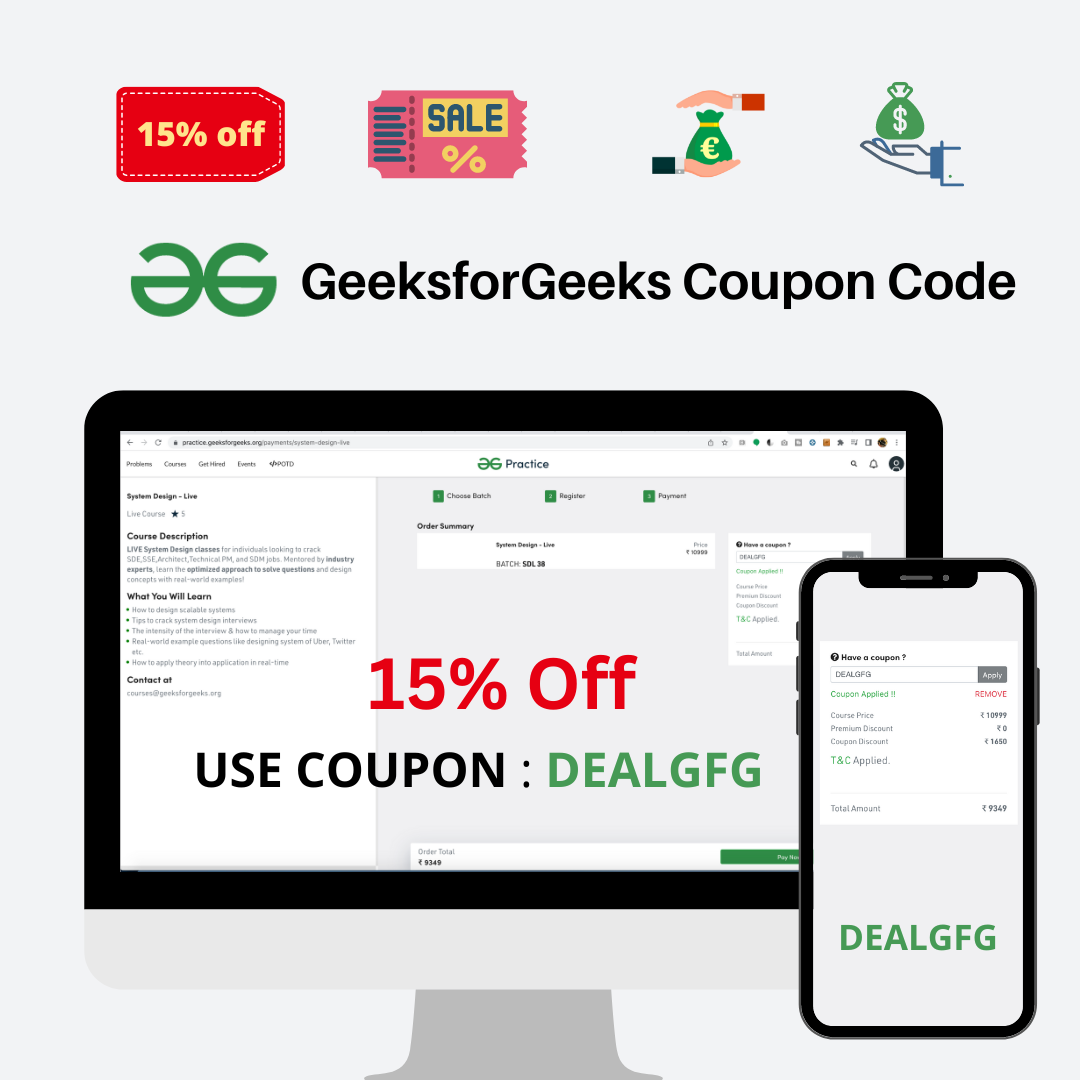
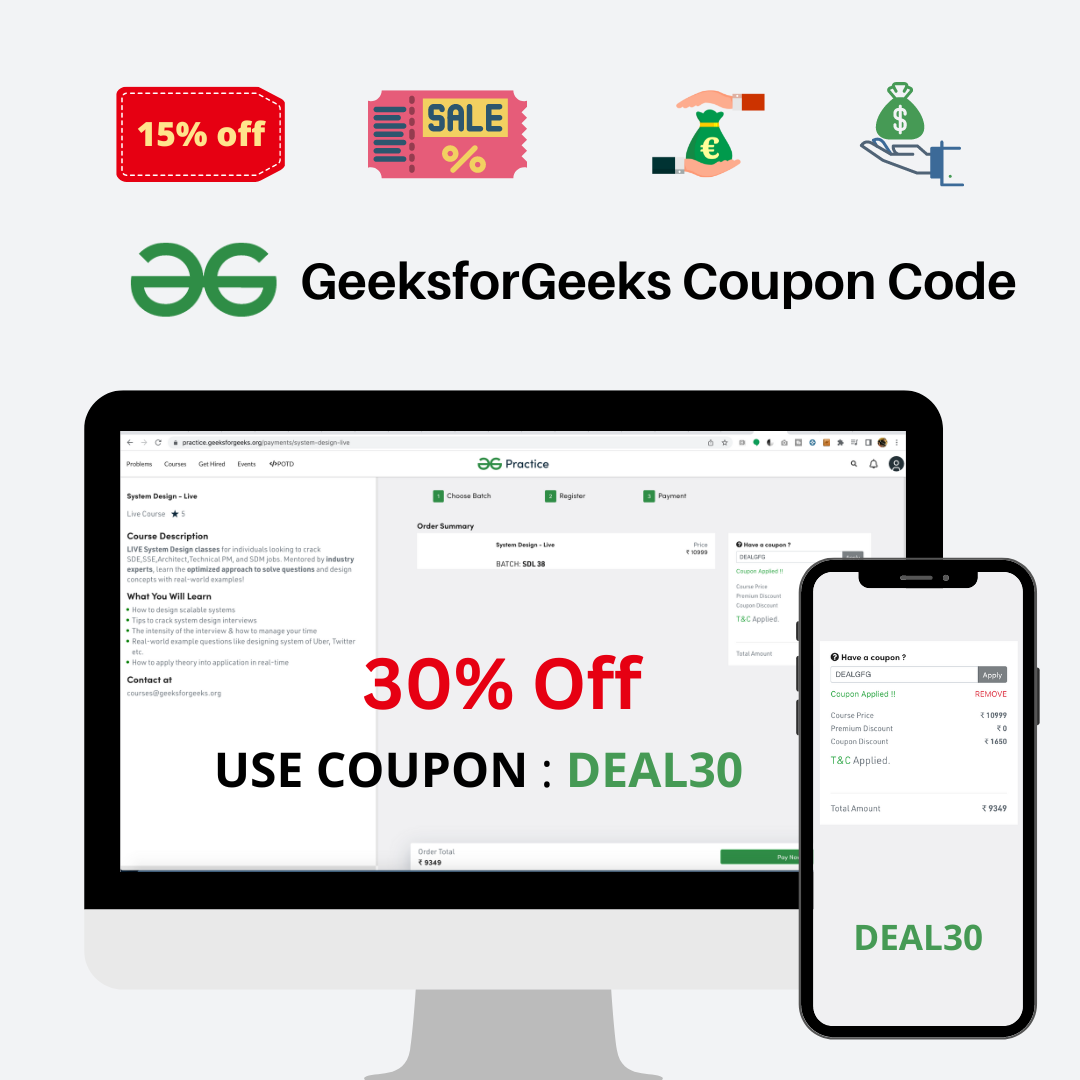
Update

Changed region(s): [[0.1833, 0.6111, 0.7028, 0.7333], [0.7639, 0.8556, 0.9167, 0.8861]]

diff --git a/index.html b/index.html
@@ -11,7 +11,7 @@
   <title>GET 100% Maximum GeeksForGeeks Coupon Code Discount Coupons</title>
 
   <meta name="description"
-    content='Use GeeksForGeeks Coupon Code: DEALGFG and get best deal on GeeksForGeeks Courses. Best Maximum Discount Coupon Codes for GeeksForGeeks that works 100% GUARANTEED'>
+    content='Use GeeksForGeeks Coupon Code: DEAL30 and get best deal on GeeksForGeeks Courses. Best Maximum Discount Coupon Codes for GeeksForGeeks that works 100% GUARANTEED'>
 
   <meta name="keywords"
     content="GeeksForGeeks coupon code, GeeksForGeeks coupon, gfg coupon code, gfg coupon, gfg discount, geeksforgeeks discount, GeeksForGeeks discounts, GeeksForGeeks discount coupons, GeeksForGeeks coupon, GeeksForGeeks coupon code, gfg coupon code, GeeksForGeeks offers, coupon code for GeeksForGeeks, GeeksForGeeks coupons,  GeeksForGeeks referral coupon, GeeksForGeeks affiliate referral, GeeksForGeeks discount link, GeeksForGeeks affiliate referral discount, GeeksForGeeks affiliate, GeeksForGeeks affiliate discount, GeeksForGeeks referral 1200, GeeksForGeeks campus referral, codingreferral, GeeksForGeeks referral, gfg referral, gfg discounts, couponinvent, cn discounts, cn referral, GeeksForGeeks affiliate referral discounts, GeeksForGeeks course discounts, GeeksForGeeks refferral, gfg coupon, gfg coupon code">
@@ -20,7 +20,7 @@
   <meta property="og:type" content="website" />
   <meta property="og:title" content="GeeksForGeeks Coupon Code - Get 100% MAXIMUM Discount Coupons Code" />
   <meta property="og:description"
-    content="Apply this GeeksForGeeks Coupon Code: 'DEALGFG', to get MAXIMUM Discount on any courses. Discount Coupons Code for GeeksForGeeks that works 100% GUARANTEED" />
+    content="Apply this GeeksForGeeks Coupon Code: 'DEAL30', to get MAXIMUM Discount on any courses. Discount Coupons Code for GeeksForGeeks that works 100% GUARANTEED" />
   <meta property="og:url" content="https://couponinvent.github.io/geeksforgeeks/geeksforgeeks-coupon-code.html" />
   <meta property="og:site_name" content="GeeksForGeeks Coupon Code" />
   <meta property="article:publisher" content="https://www.facebook.com/jvjplus" />
@@ -257,7 +257,7 @@
         <li class="landing-page-li">
           <img class="landing-li-img" src="assets/tick-icon-dark-green.png" alt="List icon">
           <!-- <h2 class="landing-page-li-early-bird-discount">Also Get Upto <strong> 50% </strong> Discount by GFG.</h2> -->
-          <h2 class="landing-page-li-early-bird-discount">Use Coupon Code: <strong> DEALGFG </strong> and Level Up your
+          <h2 class="landing-page-li-early-bird-discount">Use Coupon Code: <strong> DEAL30 </strong> and Level Up your
             Skills and Knowledge.</h2>
         </li>
         <li class="landing-page-li">
@@ -289,7 +289,7 @@
 
         <span class="copy-container">
           <p class="box-label"> Use Coupon</p>
-          <span class="coupon-code">DEALGFG</span>
+          <span class="coupon-code">DEAL30</span>
           <span class="tooltip-container">
             <span>
               <svg class="copy-icon noSelect" alt="copy coupon code" onclick="addToClipboard();"
@@ -407,7 +407,7 @@ c0-4.551,3.703-8.254,8.254-8.254h88.271c4.551,0,8.254,3.703,8.254,8.254V160.746z
             <p class="deal-original-price"><s> ₹3,899</s> </p>
             <p class="deal-discount-percentage-hightlight">-15% OFF</p>
           </div>
-          <p class="description">Hurray! Discount Offers on your way. Just use coupon code 'DEALGFG' on gfg Data
+          <p class="description">Hurray! Discount Offers on your way. Just use coupon code 'DEAL30' on gfg Data
             Structures and Algorithms - Self Paced Course
             purchase and save 15% extra.</p>
         </div>
@@ -417,9 +417,9 @@ c0-4.551,3.703-8.254,8.254-8.254h88.271c4.551,0,8.254,3.703,8.254,8.254V160.746z
             <button class="deal-cta-btn">GET DEAL</button>
           </a>
           <div class="deal-coupon-code-container">
-            <p class="deal-coupon-code">DEALGFG</p>
+            <p class="deal-coupon-code">DEAL30</p>
             <img src="assets/copy-icon.svg" alt="copy-icon" class="deal-copy-icon clipboard-btn"
-              data-clipboard-text="DEALGFG">
+              data-clipboard-text="DEAL30">
             <!-- <i class="fas fa-light fa-copy deal-copy-icon"></i> -->
           </div>
 
@@ -445,7 +445,7 @@ c0-4.551,3.703-8.254,8.254-8.254h88.271c4.551,0,8.254,3.703,8.254,8.254V160.746z
             <p class="deal-original-price"><s>₹10,999</s> </p>
             <p class="deal-discount-percentage-hightlight">-15% OFF</p>
           </div>
-          <p class="description">Hurray! Discount Offers on your way. Just use coupon code 'DEALGFG' on gfg Competitive
+          <p class="description">Hurray! Discount Offers on your way. Just use coupon code 'DEAL30' on gfg Competitive
             Programming - Live Course purchase and save 15% extra.</p>
         </div>
 
@@ -454,9 +454,9 @@ c0-4.551,3.703-8.254,8.254-8.254h88.271c4.551,0,8.254,3.703,8.254,8.254V160.746z
             <button class="deal-cta-btn">GET DEAL</button>
           </a>
           <div class="deal-coupon-code-container">
-            <p class="deal-coupon-code">DEALGFG</p>
+            <p class="deal-coupon-code">DEAL30</p>
             <img src="assets/copy-icon.svg" alt="copy-icon" class="deal-copy-icon clipboard-btn"
-              data-clipboard-text="DEALGFG">
+              data-clipboard-text="DEAL30">
             <!-- <i class="fas fa-light fa-copy deal-copy-icon"></i> -->
           </div>
 
@@ -483,7 +483,7 @@ c0-4.551,3.703-8.254,8.254-8.254h88.271c4.551,0,8.254,3.703,8.254,8.254V160.746z
             <p class="deal-original-price"><s> ₹7,748</s> </p>
             <p class="deal-discount-percentage-hightlight">-15% OFF</p>
           </div>
-          <p class="description">Hurray! Discount Offers on your way. Just use coupon code 'DEALGFG' on gfg Complete
+          <p class="description">Hurray! Discount Offers on your way. Just use coupon code 'DEAL30' on gfg Complete
             Interview Preparation - Self Paced Course
             purchase and save 15% extra.</p>
         </div>
@@ -493,9 +493,9 @@ c0-4.551,3.703-8.254,8.254-8.254h88.271c4.551,0,8.254,3.703,8.254,8.254V160.746z
             <button class="deal-cta-btn">GET DEAL</button>
           </a>
           <div class="deal-coupon-code-container">
-            <p class="deal-coupon-code">DEALGFG</p>
+            <p class="deal-coupon-code">DEAL30</p>
             <img src="assets/copy-icon.svg" alt="copy-icon" class="deal-copy-icon clipboard-btn"
-              data-clipboard-text="DEALGFG">
+              data-clipboard-text="DEAL30">
             <!-- <i class="fas fa-light fa-copy deal-copy-icon"></i> -->
           </div>
 
@@ -523,7 +523,7 @@ c0-4.551,3.703-8.254,8.254-8.254h88.271c4.551,0,8.254,3.703,8.254,8.254V160.746z
             <p class="deal-original-price"><s> ₹2,499</s> </p>
             <p class="deal-discount-percentage-hightlight">-15% OFF</p>
           </div>
-          <p class="description">Hurray! Discount Offers on your way. Just use coupon code 'DEALGFG' on gfg Complete
+          <p class="description">Hurray! Discount Offers on your way. Just use coupon code 'DEAL30' on gfg Complete
             Test Series for Service-Based Companies Course
             purchase and save 15% extra.</p>
         </div>
@@ -533,9 +533,9 @@ c0-4.551,3.703-8.254,8.254-8.254h88.271c4.551,0,8.254,3.703,8.254,8.254V160.746z
             <button class="deal-cta-btn">GET DEAL</button>
           </a>
           <div class="deal-coupon-code-container">
-            <p class="deal-coupon-code">DEALGFG</p>
+            <p class="deal-coupon-code">DEAL30</p>
             <img src="assets/copy-icon.svg" alt="copy-icon" class="deal-copy-icon clipboard-btn"
-              data-clipboard-text="DEALGFG">
+              data-clipboard-text="DEAL30">
             <!-- <i class="fas fa-light fa-copy deal-copy-icon"></i> -->
           </div>
 
@@ -607,7 +607,7 @@ c0-4.551,3.703-8.254,8.254-8.254h88.271c4.551,0,8.254,3.703,8.254,8.254V160.746z
         </li>
         <li><strong>Apply Coupon Code:</strong> After selecting the course, Proceed to buy the
           course. On checkout you'll see a option to apply coupon code. Apply the coupon code <span
-            class="highlight">"DEALGFG"</span>
+            class="highlight">"DEAL30"</span>
           to get maximum discount.</li>
         <li>
           <strong>Start Learning & Get Placed:</strong>
@@ -677,7 +677,7 @@ c0-4.551,3.703-8.254,8.254-8.254h88.271c4.551,0,8.254,3.703,8.254,8.254V160.746z
         <div class="hiw-step-img-container title vertically-align">2</div>
         <div class="title">Apply Coupon Code</div>
         <div class="paragraph">Proceed to payment page, There you will find a option to apply coupon code,
-          Apply the coupon code <span class="highlight">"DEALGFG"</span> to get maximum discount available on
+          Apply the coupon code <span class="highlight">"DEAL30"</span> to get maximum discount available on
           geeksforgeeks.</div>
       </div>
 
@@ -841,7 +841,7 @@ c0-4.551,3.703-8.254,8.254-8.254h88.271c4.551,0,8.254,3.703,8.254,8.254V160.746z
         <div class="ab-single-item-descrip-container">
           <h3 class="title">Apply Coupon Code</h3>
           <p class="paragraph">
-            On the checkout page, Apply coupon code <span class="highlight">"DEALGFG"</span>. This will automatically
+            On the checkout page, Apply coupon code <span class="highlight">"DEAL30"</span>. This will automatically
             apply the maximum discount on your purchase.
           </p>
         </div>
@@ -933,7 +933,7 @@ c0-4.551,3.703-8.254,8.254-8.254h88.271c4.551,0,8.254,3.703,8.254,8.254V160.746z
             </ul>
 
             <br>
-            Use GFG coupon code <span class="highlight">DEALGFG</span> for availing an additional 15% off on the <a
+            Use GFG coupon code <span class="highlight">DEAL30</span> for availing an additional 15% off on the <a
               href="https://practice.geeksforgeeks.org/courses/dsa-self-paced">DSA Self Paced Course</a>.
 
             <br><br>
@@ -955,7 +955,7 @@ c0-4.551,3.703-8.254,8.254-8.254h88.271c4.551,0,8.254,3.703,8.254,8.254V160.746z
               <li>Course Instructor: Sandeep Jain</li>
             </ul>
             <br>
-            Use GFG coupon code <span class="highlight">DEALGFG</span> for availing an additional 15% off on the <a
+            Use GFG coupon code <span class="highlight">DEAL30</span> for availing an additional 15% off on the <a
               href="https://practice.geeksforgeeks.org/courses/complete-interview-preparation">Complete Interview
               Preparation Course</a>.
 
@@ -989,7 +989,7 @@ c0-4.551,3.703-8.254,8.254-8.254h88.271c4.551,0,8.254,3.703,8.254,8.254V160.746z
         </button>
         <div class="panel">
           <main class="paragraph">No, this is the highest discount code available anywhere online for GeeksforGeeks. Use
-            coupon code <span class="highlight">DEALGFG</span> and get a flat 15% OFF on all courses.</main>
+            coupon code <span class="highlight">DEAL30</span> and get a flat 15% OFF on all courses.</main>
         </div>
       </div>
 
@@ -1018,11 +1018,11 @@ c0-4.551,3.703-8.254,8.254-8.254h88.271c4.551,0,8.254,3.703,8.254,8.254V160.746z
 
       <div class='item' data-aos="fade-up">
         <button class="accordion noSelect">
-          <h3 class='title'>Can I buy multiple courses using GFG Coupon Code : DEALGFG?</h3>
+          <h3 class='title'>Can I buy multiple courses using GFG Coupon Code : DEAL30?</h3>
         </button>
         <div class="panel">
           <main class="paragraph">Absolutely yes! You can buy as many courses using coupon code <span
-              class="highlight">DEALGFG</span> at flat 15% off.
+              class="highlight">DEAL30</span> at flat 15% off.
           </main>
         </div>
       </div>
@@ -1065,8 +1065,8 @@ c0-4.551,3.703-8.254,8.254-8.254h88.271c4.551,0,8.254,3.703,8.254,8.254V160.746z
             GeeksForGeeks Referral Code is special code through which geeksforgeeks students can get discount on all
             their course purchases.
             <br><br>
-            GeeksForGeeks Referral Code: "DEALGFG" gives user maximum discount on all geeksforgeeks courses. User can
-            use geeksforgeeks referral code "DEALGFG" and get discounts on course purchase.
+            GeeksForGeeks Referral Code: "DEAL30" gives user maximum discount on all geeksforgeeks courses. User can
+            use geeksforgeeks referral code "DEAL30" and get discounts on course purchase.
           </main>
         </div>
       </div>
@@ -1179,7 +1179,7 @@ c0-4.551,3.703-8.254,8.254-8.254h88.271c4.551,0,8.254,3.703,8.254,8.254V160.746z
 
     <div class="end-cta-btns-container" data-aos="fade-up">
       <a id="end-cta-try-free-btn" class="secondary-btn center">USE COUPON:</a>
-      <a target="_blank" id="end-cta-join-btn" class="primary-btn center">DEALGFG</a>
+      <a target="_blank" id="end-cta-join-btn" class="primary-btn center">DEAL30</a>
     </div>
   </section>
 
@@ -1242,7 +1242,7 @@ c0-4.551,3.703-8.254,8.254-8.254h88.271c4.551,0,8.254,3.703,8.254,8.254V160.746z
 
 
     function addToClipboard() {
-      copyToClipboard('DEALGFG');
+      copyToClipboard('DEAL30');
       var tooltip = document.getElementById('myTooltip');
       var couponTextDom = document.querySelector('.coupon-code');
       var couponContainerDom = document.querySelector('.copy-container');
@@ -1310,7 +1310,7 @@ c0-4.551,3.703-8.254,8.254-8.254h88.271c4.551,0,8.254,3.703,8.254,8.254V160.746z
                   "worstRating" : "1",
                   "ratingCount" : "635"
             },
-            "description":"Use GeeksForGeeks Coupon Code: DEALGFG and get best deal on GeeksForGeeks Courses. Best Maximum Discount Coupon Codes for GeeksForGeeks that works 100% GUARANTEED",
+            "description":"Use GeeksForGeeks Coupon Code: DEAL30 and get best deal on GeeksForGeeks Courses. Best Maximum Discount Coupon Codes for GeeksForGeeks that works 100% GUARANTEED",
 
             "review": [
                   {
